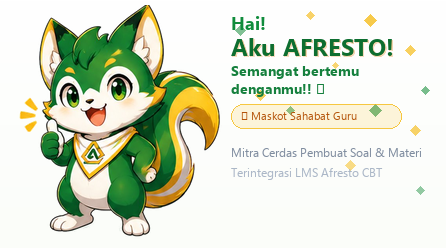
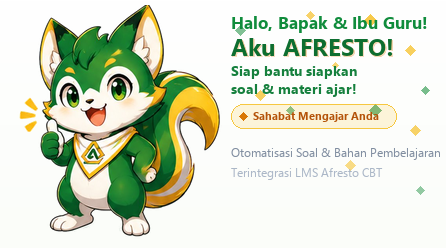
fix(copywriting): replace awkward translation with natural Indonesian greeting and eliminate missing emoji glyphs

diff --git a/dist/sidepanel/sidepanel.html b/dist/sidepanel/sidepanel.html
@@ -10,7 +10,7 @@
   <div class="app-container">
     <!-- Top Mascot Hero Banner (Compact & Cohesive Header) -->
     <div class="mascot-hero-banner" id="mascot-hero-banner">
-      <img src="../icons/banner.png" alt="Afresto AI Mascot - Hai! Aku AFRESTO! Semangat bertemu denganmu!!" class="mascot-hero-img" id="mascot-hero-img">
+      <img src="../icons/banner.png" alt="Afresto AI Mascot - Halo, Bapak & Ibu Guru! Aku AFRESTO, siap bantu siapkan soal & materi ajar!" class="mascot-hero-img" id="mascot-hero-img">
       <button type="button" id="btn-toggle-hero-banner" class="btn-banner-toggle" title="Ciutkan / Tampilkan banner maskot" aria-label="Toggle Banner Maskot">
         <span id="banner-toggle-icon">▲</span>
       </button>

diff --git a/sidepanel/sidepanel.html b/sidepanel/sidepanel.html
@@ -10,7 +10,7 @@
   <div class="app-container">
     <!-- Top Mascot Hero Banner (Compact & Cohesive Header) -->
     <div class="mascot-hero-banner" id="mascot-hero-banner">
-      <img src="../icons/banner.png" alt="Afresto AI Mascot - Hai! Aku AFRESTO! Semangat bertemu denganmu!!" class="mascot-hero-img" id="mascot-hero-img">
+      <img src="../icons/banner.png" alt="Afresto AI Mascot - Halo, Bapak & Ibu Guru! Aku AFRESTO, siap bantu siapkan soal & materi ajar!" class="mascot-hero-img" id="mascot-hero-img">
       <button type="button" id="btn-toggle-hero-banner" class="btn-banner-toggle" title="Ciutkan / Tampilkan banner maskot" aria-label="Toggle Banner Maskot">
         <span id="banner-toggle-icon">▲</span>
       </button>

diff --git a/scripts/generate_mascot_assets_hd.py b/scripts/generate_mascot_assets_hd.py
@@ -110,29 +110,29 @@ def build_banner(mascot_img, out_paths):
     # Typography
     draw = ImageDraw.Draw(banner)
     try:
-        font_hi = ImageFont.truetype('segoeuib.ttf', 18)
+        font_hi = ImageFont.truetype('segoeuib.ttf', 17)
         font_name = ImageFont.truetype('segoeuib.ttf', 24)
         font_sub = ImageFont.truetype('segoeuib.ttf', 14)
-        font_badge = ImageFont.truetype('segoeui.ttf', 11)
+        font_badge = ImageFont.truetype('segoeuib.ttf', 11)
         font_desc = ImageFont.truetype('segoeui.ttf', 12)
     except:
-        font_hi = ImageFont.truetype('arialbd.ttf', 18)
+        font_hi = ImageFont.truetype('arialbd.ttf', 17)
         font_name = ImageFont.truetype('arialbd.ttf', 24)
         font_sub = ImageFont.truetype('arialbd.ttf', 14)
-        font_badge = ImageFont.truetype('arial.ttf', 11)
+        font_badge = ImageFont.truetype('arialbd.ttf', 11)
         font_desc = ImageFont.truetype('arial.ttf', 12)
 
     text_x = max(target_w + 14, 228)
     
-    # Top greetings (visible within standard 110px sidepanel view)
-    draw.text((text_x, 10), "Hai!", font=font_hi, fill=(16, 140, 60, 255))
+    # Natural Indonesian greeting for teachers (no awkward translations)
+    draw.text((text_x, 10), "Halo, Bapak & Ibu Guru!", font=font_hi, fill=(16, 140, 60, 255))
     draw.text((text_x + 1, 31), "Aku AFRESTO!", font=font_name, fill=(217, 119, 6, 60))
     draw.text((text_x, 30), "Aku AFRESTO!", font=font_name, fill=(13, 110, 48, 255))
-    draw.text((text_x, 60), "Semangat bertemu", font=font_sub, fill=(21, 128, 61, 255))
-    draw.text((text_x, 78), "denganmu!! ✨", font=font_sub, fill=(21, 128, 61, 255))
+    draw.text((text_x, 60), "Siap bantu siapkan", font=font_sub, fill=(21, 128, 61, 255))
+    draw.text((text_x, 78), "soal & materi ajar!", font=font_sub, fill=(21, 128, 61, 255))
     
-    # Badge Pill
-    pill_w = 170
+    # Badge Pill (drawn diamond vector icon to eliminate emoji tofu [ ] box)
+    pill_w = 165
     pill_h = 24
     pill_y = 104
     pill_img = Image.new('RGBA', (width, height), (0,0,0,0))
@@ -144,13 +144,18 @@ def build_banner(mascot_img, out_paths):
         outline=(244, 180, 0, 190), 
         width=1
     )
+    # Golden diamond vector icon
+    dc_x = text_x + 12
+    dc_y = pill_y + 12
+    d_sz = 4
+    pdraw.polygon([(dc_x, dc_y - d_sz), (dc_x + d_sz, dc_y), (dc_x, dc_y + d_sz), (dc_x - d_sz, dc_y)], fill=(217, 119, 6, 255))
     banner = Image.alpha_composite(banner, pill_img)
     
     draw = ImageDraw.Draw(banner)
-    draw.text((text_x + 10, pill_y + 4), "🦊 Maskot Sahabat Guru", font=font_badge, fill=(180, 83, 9, 255))
+    draw.text((text_x + 22, pill_y + 4), "Sahabat Mengajar Anda", font=font_badge, fill=(180, 83, 9, 255))
     
-    # Bottom secondary text (visible when banner is expanded or in full asset view)
-    draw.text((text_x, 144), "Mitra Cerdas Pembuat Soal & Materi", font=font_desc, fill=(100, 116, 139, 210))
+    # Bottom secondary text (visible when banner is expanded)
+    draw.text((text_x, 144), "Otomatisasi Soal & Bahan Pembelajaran", font=font_desc, fill=(100, 116, 139, 210))
     draw.text((text_x, 164), "Terintegrasi LMS Afresto CBT", font=font_desc, fill=(148, 163, 184, 200))
     
     for p in out_paths:
